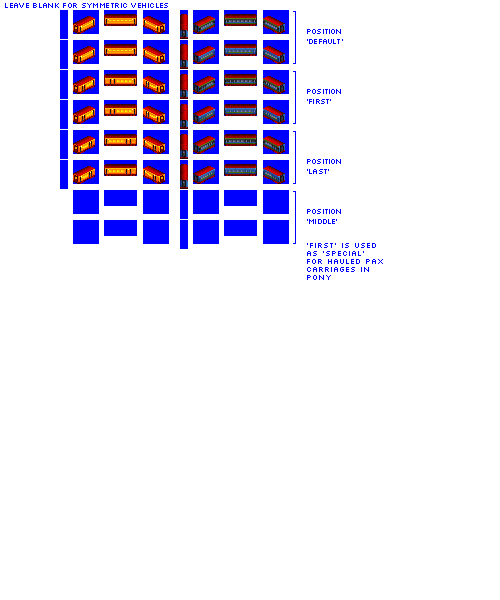
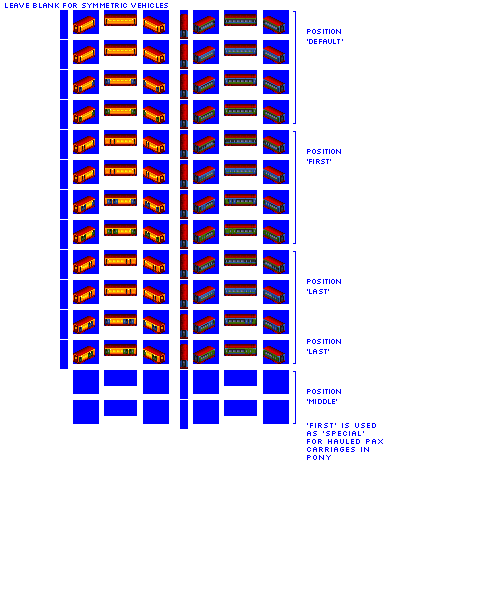
Change: merge gen 6 pax cars into gen 5

diff --git a/src/vehicles/passenger_cars.py b/src/vehicles/passenger_cars.py
@@ -186,6 +186,7 @@ def main():
         base_numeric_id=9780,
         gen=5,
         subtype="B",
+        liveries="gen_5_and_6_pax_liveries", # override default liveries from gestalt
         sprites_complete=True,
     )
 
@@ -196,6 +197,7 @@ def main():
         base_numeric_id=12170,
         gen=5,
         subtype="C",
+        liveries="gen_5_and_6_pax_liveries", # override default liveries from gestalt
         sprites_complete=True,
     )
 
